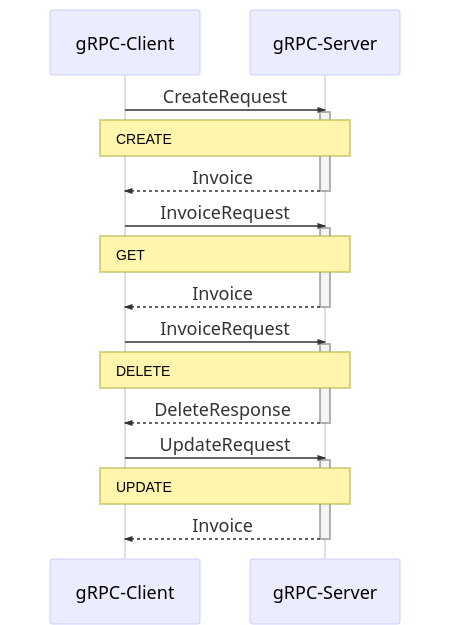
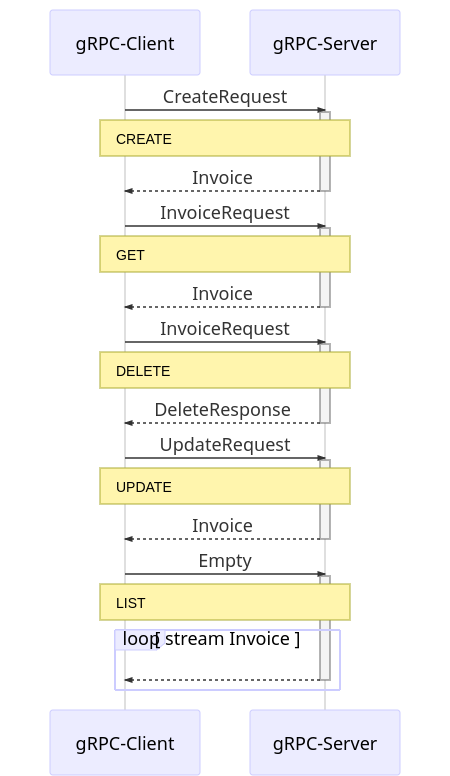
completed payload and service definition

Changed region(s): [[0.0933, 0.0304, 0.9022, 0.9728], [0.5911, 0.9424, 0.84, 0.9728]]

diff --git a/src/main/java/no/sysco/middleware/workshops/InvoiceServiceGrpc.java b/src/main/java/no/sysco/middleware/workshops/InvoiceServiceGrpc.java
@@ -79,6 +79,19 @@ public final class InvoiceServiceGrpc {
               no.sysco.middleware.workshops.InvoiceOuterClass.Invoice.getDefaultInstance()))
           .setSchemaDescriptor(new InvoiceServiceMethodDescriptorSupplier("Update"))
           .build();
+  @io.grpc.ExperimentalApi("https://github.com/grpc/grpc-java/issues/1901")
+  public static final io.grpc.MethodDescriptor<com.google.protobuf.Empty,
+      no.sysco.middleware.workshops.InvoiceOuterClass.Invoice> METHOD_LIST =
+      io.grpc.MethodDescriptor.<com.google.protobuf.Empty, no.sysco.middleware.workshops.InvoiceOuterClass.Invoice>newBuilder()
+          .setType(io.grpc.MethodDescriptor.MethodType.SERVER_STREAMING)
+          .setFullMethodName(generateFullMethodName(
+              "InvoiceService", "List"))
+          .setRequestMarshaller(io.grpc.protobuf.ProtoUtils.marshaller(
+              com.google.protobuf.Empty.getDefaultInstance()))
+          .setResponseMarshaller(io.grpc.protobuf.ProtoUtils.marshaller(
+              no.sysco.middleware.workshops.InvoiceOuterClass.Invoice.getDefaultInstance()))
+          .setSchemaDescriptor(new InvoiceServiceMethodDescriptorSupplier("List"))
+          .build();
 
   /**
    * Creates a new async stub that supports all call types for the service
@@ -135,6 +148,13 @@ public final class InvoiceServiceGrpc {
       asyncUnimplementedUnaryCall(METHOD_UPDATE, responseObserver);
     }
 
+    /**
+     */
+    public void list(com.google.protobuf.Empty request,
+        io.grpc.stub.StreamObserver<no.sysco.middleware.workshops.InvoiceOuterClass.Invoice> responseObserver) {
+      asyncUnimplementedUnaryCall(METHOD_LIST, responseObserver);
+    }
+
     @java.lang.Override public final io.grpc.ServerServiceDefinition bindService() {
       return io.grpc.ServerServiceDefinition.builder(getServiceDescriptor())
           .addMethod(
@@ -165,6 +185,13 @@ public final class InvoiceServiceGrpc {
                 no.sysco.middleware.workshops.InvoiceOuterClass.UpdateRequest,
                 no.sysco.middleware.workshops.InvoiceOuterClass.Invoice>(
                   this, METHODID_UPDATE)))
+          .addMethod(
+            METHOD_LIST,
+            asyncServerStreamingCall(
+              new MethodHandlers<
+                com.google.protobuf.Empty,
+                no.sysco.middleware.workshops.InvoiceOuterClass.Invoice>(
+                  this, METHODID_LIST)))
           .build();
     }
   }
@@ -218,6 +245,14 @@ public final class InvoiceServiceGrpc {
       asyncUnaryCall(
           getChannel().newCall(METHOD_UPDATE, getCallOptions()), request, responseObserver);
     }
+
+    /**
+     */
+    public void list(com.google.protobuf.Empty request,
+        io.grpc.stub.StreamObserver<no.sysco.middleware.workshops.InvoiceOuterClass.Invoice> responseObserver) {
+      asyncServerStreamingCall(
+          getChannel().newCall(METHOD_LIST, getCallOptions()), request, responseObserver);
+    }
   }
 
   /**
@@ -264,6 +299,14 @@ public final class InvoiceServiceGrpc {
     public no.sysco.middleware.workshops.InvoiceOuterClass.Invoice update(no.sysco.middleware.workshops.InvoiceOuterClass.UpdateRequest request) {
       return blockingUnaryCall(
           getChannel(), METHOD_UPDATE, getCallOptions(), request);
+    }
+
+    /**
+     */
+    public java.util.Iterator<no.sysco.middleware.workshops.InvoiceOuterClass.Invoice> list(
+        com.google.protobuf.Empty request) {
+      return blockingServerStreamingCall(
+          getChannel(), METHOD_LIST, getCallOptions(), request);
     }
   }
 
@@ -322,6 +365,7 @@ public final class InvoiceServiceGrpc {
   private static final int METHODID_GET = 1;
   private static final int METHODID_DELETE = 2;
   private static final int METHODID_UPDATE = 3;
+  private static final int METHODID_LIST = 4;
 
   private static final class MethodHandlers<Req, Resp> implements
       io.grpc.stub.ServerCalls.UnaryMethod<Req, Resp>,
@@ -354,6 +398,10 @@ public final class InvoiceServiceGrpc {
           break;
         case METHODID_UPDATE:
           serviceImpl.update((no.sysco.middleware.workshops.InvoiceOuterClass.UpdateRequest) request,
+              (io.grpc.stub.StreamObserver<no.sysco.middleware.workshops.InvoiceOuterClass.Invoice>) responseObserver);
+          break;
+        case METHODID_LIST:
+          serviceImpl.list((com.google.protobuf.Empty) request,
               (io.grpc.stub.StreamObserver<no.sysco.middleware.workshops.InvoiceOuterClass.Invoice>) responseObserver);
           break;
         default:
@@ -421,6 +469,7 @@ public final class InvoiceServiceGrpc {
               .addMethod(METHOD_GET)
               .addMethod(METHOD_DELETE)
               .addMethod(METHOD_UPDATE)
+              .addMethod(METHOD_LIST)
               .build();
         }
       }

diff --git a/src/main/java/no/sysco/middleware/workshops/InvoiceOuterClass.java b/src/main/java/no/sysco/middleware/workshops/InvoiceOuterClass.java
@@ -3348,20 +3348,22 @@ public final class InvoiceOuterClass {
       descriptor;
   static {
     java.lang.String[] descriptorData = {
-      "\n\rinvoice.proto\"P\n\007Invoice\022\n\n\002id\030\001 \001(\t\022\016" +
-      "\n\006amount\030\002 \001(\002\022\022\n\ncustomerId\030\003 \001(\t\022\025\n\005st" +
-      "ate\030\004 \001(\0162\006.State\"J\n\rCreateRequest\022\016\n\006am" +
-      "ount\030\001 \001(\002\022\022\n\ncustomerId\030\002 \001(\t\022\025\n\005state\030" +
-      "\003 \001(\0162\006.State\"\034\n\016InvoiceRequest\022\n\n\002id\030\001 " +
-      "\001(\t\"(\n\016DeleteResponse\022\n\n\002id\030\001 \001(\t\022\n\n\002ok\030" +
-      "\002 \001(\010\"+\n\rUpdateRequest\022\n\n\002id\030\001 \001(\t\022\016\n\006am" +
-      "ount\030\002 \001(\002*&\n\005State\022\007\n\003NEW\020\000\022\010\n\004PAID\020\001\022\n" +
-      "\n\006FAILED\020\0022\246\001\n\016InvoiceService\022\"\n\006Create\022" +
-      "\016.CreateRequest\032\010.Invoice\022 \n\003Get\022\017.Invoi",
-      "ceRequest\032\010.Invoice\022*\n\006Delete\022\017.InvoiceR" +
-      "equest\032\017.DeleteResponse\022\"\n\006Update\022\016.Upda" +
-      "teRequest\032\010.InvoiceB\037\n\035no.sysco.middlewa" +
-      "re.workshopsb\006proto3"
+      "\n\rinvoice.proto\032\033google/protobuf/empty.p" +
+      "roto\"P\n\007Invoice\022\n\n\002id\030\001 \001(\t\022\016\n\006amount\030\002 " +
+      "\001(\002\022\022\n\ncustomerId\030\003 \001(\t\022\025\n\005state\030\004 \001(\0162\006" +
+      ".State\"J\n\rCreateRequest\022\016\n\006amount\030\001 \001(\002\022" +
+      "\022\n\ncustomerId\030\002 \001(\t\022\025\n\005state\030\003 \001(\0162\006.Sta" +
+      "te\"\034\n\016InvoiceRequest\022\n\n\002id\030\001 \001(\t\"(\n\016Dele" +
+      "teResponse\022\n\n\002id\030\001 \001(\t\022\n\n\002ok\030\002 \001(\010\"+\n\rUp" +
+      "dateRequest\022\n\n\002id\030\001 \001(\t\022\016\n\006amount\030\002 \001(\002*" +
+      "&\n\005State\022\007\n\003NEW\020\000\022\010\n\004PAID\020\001\022\n\n\006FAILED\020\0022" +
+      "\322\001\n\016InvoiceService\022\"\n\006Create\022\016.CreateReq",
+      "uest\032\010.Invoice\022 \n\003Get\022\017.InvoiceRequest\032\010" +
+      ".Invoice\022*\n\006Delete\022\017.InvoiceRequest\032\017.De" +
+      "leteResponse\022\"\n\006Update\022\016.UpdateRequest\032\010" +
+      ".Invoice\022*\n\004List\022\026.google.protobuf.Empty" +
+      "\032\010.Invoice0\001B\037\n\035no.sysco.middleware.work" +
+      "shopsb\006proto3"
     };
     com.google.protobuf.Descriptors.FileDescriptor.InternalDescriptorAssigner assigner =
         new com.google.protobuf.Descriptors.FileDescriptor.    InternalDescriptorAssigner() {
@@ -3374,6 +3376,7 @@ public final class InvoiceOuterClass {
     com.google.protobuf.Descriptors.FileDescriptor
       .internalBuildGeneratedFileFrom(descriptorData,
         new com.google.protobuf.Descriptors.FileDescriptor[] {
+          com.google.protobuf.EmptyProto.getDescriptor(),
         }, assigner);
     internal_static_Invoice_descriptor =
       getDescriptor().getMessageTypes().get(0);
@@ -3405,6 +3408,7 @@ public final class InvoiceOuterClass {
       com.google.protobuf.GeneratedMessageV3.FieldAccessorTable(
         internal_static_UpdateRequest_descriptor,
         new java.lang.String[] { "Id", "Amount", });
+    com.google.protobuf.EmptyProto.getDescriptor();
   }
 
   // @@protoc_insertion_point(outer_class_scope)

diff --git a/docs/03-defining-payload/README.md b/docs/03-defining-payload/README.md
@@ -1,1 +1,91 @@
 # Payload and service definition.
+
+Defining payload an services in gRPC is extremely easy. We will start with defining the payload, which represent strongly typed requests and responses for methods exposed by rpc Service. The payload is represented in protobuf format and is called a `message`.
+
+## Protobuf message anatomy
+### Defining a message type
+First let's look at a very simple example. Let's say you want to define a search request message format, where each search request has a query string, the particular page of results you are interested in, and a number of results per page. Here's the .proto file you use to define the message type. 
+```
+syntax = "proto3";
+
+message SearchRequest {
+  string query = 1;
+  int32 page_number = 2;
+  int32 result_per_page = 3;
+}
+```
+- The first line of the file specifies that you're using proto3 syntax: if you don't do this the protocol buffer compiler will assume you are using proto2. This must be the first non-empty, non-comment line of the file.
+- The SearchRequest message definition specifies three fields (name/value pairs), one for each piece of data that you want to include in this type of message. Each field has a name and a type.
+
+### Specifying Field Types
+In the above example, all the fields are scalar types: two integers (page_number and result_per_page) and a string (query). However, you can also specify composite types for your fields, including enumerations and other message types. 
+
+### Assigning Field Numbers
+As you can see, each field in the message definition has a unique number. These field numbers are used to identify your fields in the message binary format, and should not be changed once your message type is in use. Note that field numbers in the range 1 through 15 take one byte to encode, including the field number and the field's type. Field numbers in the range 16 through 2047 take two bytes. So you should reserve the numbers 1 through 15 for very frequently occurring message elements. Remember to leave some room for frequently occurring elements that might be added in the future.
+
+### Specifying Field Rules
+Message fields can be one of the following:
+- _singular_: a well-formed message can have zero or one of this field (but not more than one).
+- _repeated_: this field can be repeated any number of times (including zero) in a well-formed message. The order of the repeated values will be preserved.
+
+Source: [protobuf](https://developers.google.com/protocol-buffers/docs/proto3)
+
+## Defining Payload and Service definition for our example
+
+### Defining payload
+
+Refer to [invoice.proto](../../src/main/proto/invoice.proto) for the complete reference.
+
+We start by defining the payload for our application
+```
+syntax = "proto3";
+import "google/protobuf/empty.proto";
+option java_package = "no.sysco.middleware.workshops";
+
+message Invoice {
+    string id = 1;
+    float amount = 2;
+    string customerId = 3;
+    State state = 4;
+}
+enum State {
+    NEW = 0;
+    PAID = 1;
+    FAILED = 2;
+}
+message CreateRequest {
+    float amount = 1;
+    string customerId = 2;
+    State state = 3;
+}
+message InvoiceRequest {
+    string id = 1;
+}
+message DeleteResponse {
+    string id = 1;
+    bool ok = 2;
+}
+message UpdateRequest {
+    string id = 1;
+    float amount = 2;
+    State state =3;
+}
+```
+
+Note above that we have defined an enum called State. This means that an invoice can only hold a value defined in this enum.
+Also notice that we have `option` field to define java package. There are other such options available which you can reference [here](https://developers.google.com/protocol-buffers/docs/proto3#options).
+
+### Defining Service
+Lets define the service and the methods our api supports
+```
+service InvoiceService {
+    rpc Create (CreateRequest) returns (Invoice);
+    rpc Get (InvoiceRequest) returns (Invoice);
+    rpc Delete (InvoiceRequest) returns (DeleteResponse);
+    rpc Update (UpdateRequest) returns (Invoice);
+    rpc List(google.protobuf.Empty) returns(stream Invoice);
+}
+```
+Here first four methods are `synchronous` blocking operations, while the last method is streaming operation. Also note that input type for List operation is Empty which is a way to represent void in protobuf.
+
+[Next](../04-code-generation/README.md) we will look into code generation from our .proto files 

diff --git a/docs/01-problem-statement/README.md b/docs/01-problem-statement/README.md
@@ -1,16 +1,17 @@
 # Invoice generation system
 [HOME](../../README.md)
 
-We will implement an invoice generation system which will provide following CRUD operations:
+We will implement an invoice generation system which will provide following operations:
 
 - Create : To create a new invoice
 - Get : Get an invoice by Id
 - Delete : Delete an invoice by Id
 - Update : Update amount and state of an invoice.
+- List : Get list of all the invoices.
 
 The idea is to implement invoice generation system as gRPC Server, gRPC Clients will connect to this server to perform crud operations on the invoice.
 
-For simplicity, we will create a single client that perform Create, Get , Update and Delete operations in sequence over the same channel.
+For simplicity, we will create a single client that perform Create, Get, Update, Delete and List operations in sequence over the same channel.
 
 Below sequence diagram shows the allowed operations available via API and communication between client and server
 

diff --git a/docs/02-project-setup/README.md b/docs/02-project-setup/README.md
@@ -1,7 +1,7 @@
 # Project setup
 [HOME](../../README.md)
 
-gRPC project should be able to achieve following objectives:
+Common tasks required in gRPC project are:
 - Read .proto files as payload and service definition.
 - Convert .proto files to target language. Java in our case.
 - Correct package and directory location for generated code.
